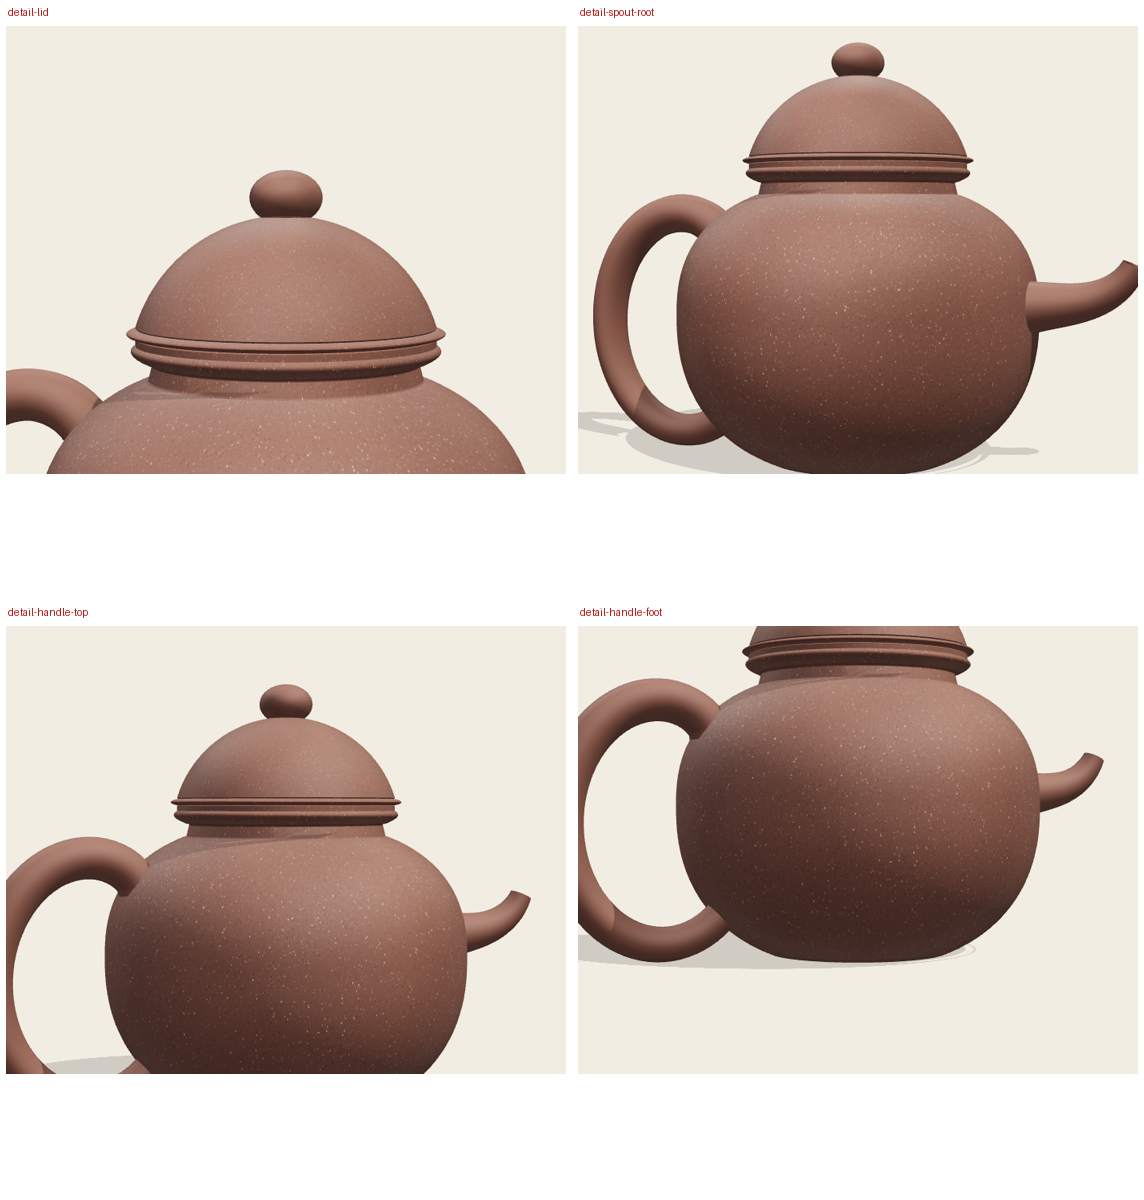
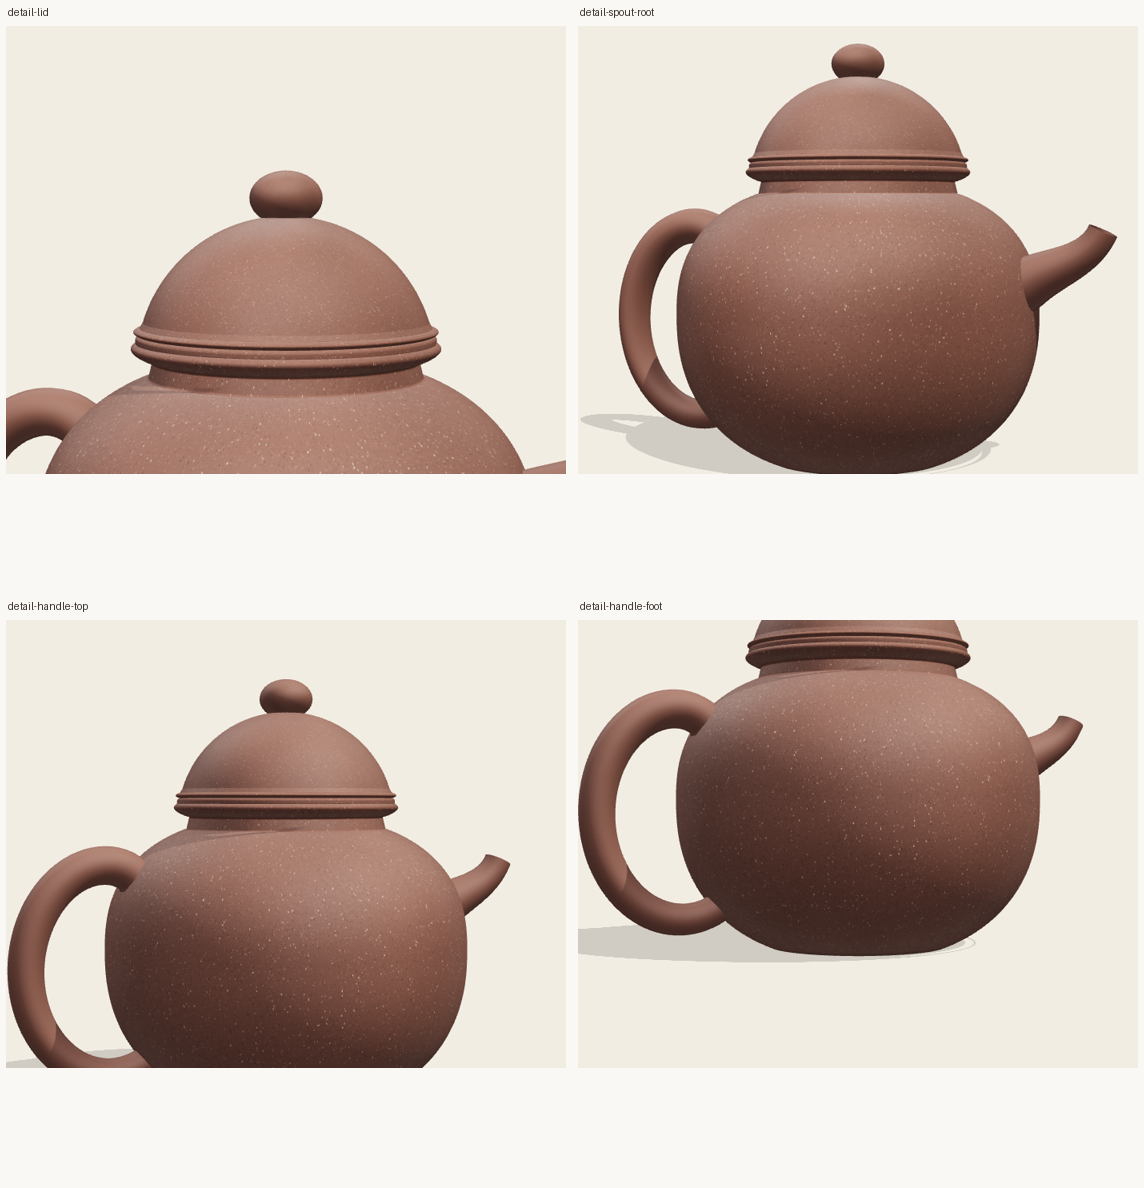
掇球: spout leaves along the normal, lid rim steps back, handle scaled down
The spout was wrong in three compounding ways, each hidden by the last.

  1. Its buried run went *horizontally* into a round belly while the surface
     normal there points up and out, so the tube cut across the surface and
     exited as a thin fin rather than a round root. `oneBend` now measures its
     root angle from the body's own normal at the attachment and starts the
     buried run back along it, meeting the surface square.

  2. The S was spent on the buried quarter. By the time the tube emerged theta
     had already flattened, so the spout read as drooping no matter how positive
     the root angle was. sin(pi u) now runs on the *visible* stretch: straight
     out along the normal, then bend.

  3. Its bore fell too slowly to look like a spout growing out of a shoulder.
     New `flare` exponent puts the narrowing at the root — 1 is a straight
     taper, 3 is nearly all of it in the first fraction.

check-details caught two of my own errors while I was in there: sBend 0.22 gave
zero inflections when I had estimated the threshold by hand, and the old "leaves
the body rising" test was measuring the first 12% of the curve, which is buried
and says nothing about what anyone sees. It now measures across the visible run.

Lid: the dome's base steps back from the ring again (brim 0.03 with the bead at
0.024) — at 0 there was no step at all, and at 0.145 earlier the shelf read as a
flying saucer. Handle scaled down: outerX 1.52 -> 1.36, tube 0.090 -> 0.082.
[…]

diff --git a/src/components/spouts.js b/src/components/spouts.js
@@ -34,22 +34,49 @@ export const SPOUTS = {
     params: {
       attachY: { label: '接身', min: 0.1, max: 0.8, step: 0.01, default: 0.46 },
       length: { label: '流长', min: 0.2, max: 1.2, step: 0.01, default: 0.62 },
-      rootAngle: { label: '起角', min: -10, max: 60, step: 1, default: 26 },
+      // measured *from the body's own surface normal* at the attachment, not
+      // from horizontal: 0 leaves straight out of the belly. Absolute angles
+      // make the buried run cut across the surface obliquely, and the tube then
+      // grazes it and exits as a thin fin instead of a round root.
+      rootAngle: { label: '起角', min: -25, max: 45, step: 1, default: 4 },
       tipAngle: { label: '口角', min: 10, max: 85, step: 1, default: 58 },
       sBend: { label: '弯度', min: 0, max: 1.2, step: 0.02, default: 0.62 },
       rootR: { label: '根径', min: 0.05, max: 0.26, step: 0.002, default: 0.155 },
       tipR: { label: '口径', min: 0.02, max: 0.12, step: 0.002, default: 0.058 },
       wall: { label: '壁厚', min: 0.005, max: 0.03, step: 0.001, default: 0.014 },
+      // How fast the root narrows. A real spout is not a tube of slowly falling
+      // bore stuck on the belly — it flares wide where it meets the body and
+      // thins away within the first fraction of its length, so it reads as
+      // growing out of the shoulder rather than butted against it. 1 is a
+      // straight taper; 3 puts almost all the flare at the root.
+      flare: { label: '根张', min: 1, max: 4, step: 0.1, default: 2.6 },
       blend: { label: '润接', min: 0, max: 0.2, step: 0.005, default: 0.08 },
     },
     build(p, material, prof) {
       const H = prof?.height ?? 1
-      const y0 = H * p.attachY
+      let y0 = H * p.attachY
       const embed = Math.max(0.13, p.rootR + 0.02)
-      const x0 = (prof?.radiusAt ? prof.radiusAt(y0) : 0.8) - embed
       const rad = (d) => (d * Math.PI) / 180
-      const a0 = rad(p.rootAngle), a1 = rad(p.tipAngle)
-      const theta = (t) => a0 + (a1 - a0) * t - p.sBend * Math.sin(Math.PI * t)
+      // the outward normal of the body profile at the attachment height
+      const rr = (yy) => (prof?.radiusAt ? prof.radiusAt(yy) : 0.8)
+      const dh = 0.012
+      const slope = (rr(y0 + dh) - rr(y0 - dh)) / (2 * dh)
+      const nAng = Math.atan2(-slope, 1)
+      const a0 = nAng + rad(p.rootAngle), a1 = rad(p.tipAngle)
+      // start the buried run back along that normal, so the tube meets the
+      // surface square rather than slicing across it
+      const x0 = rr(y0) - embed * Math.cos(nAng)
+      y0 -= embed * Math.sin(nAng)
+      // The dip must not be spent on the buried run. Roughly a quarter of the
+      // curve is inside the belly; if sin(pi t) starts there, the tube has
+      // already flattened by the time it emerges and the spout reads as
+      // drooping however positive the root angle was. Shift the S so it begins
+      // at the surface: straight out along the normal, then bend.
+      const tE = Math.min(0.6, embed / Math.max(p.length, 1e-3))
+      const theta = (t) => {
+        const u = Math.min(1, Math.max(0, (t - tE) / (1 - tE)))
+        return a0 + (a1 - a0) * t - p.sBend * Math.sin(Math.PI * u)
+      }
       const N = 88
       const pts = [new THREE.Vector3(x0, y0, 0)]
       let x = x0, y = y0
@@ -60,9 +87,10 @@ export const SPOUTS = {
         pts.push(new THREE.Vector3(x, y, 0))
       }
       const curve = new THREE.CatmullRomCurve3(pts, false, 'centripetal')
-      const outerAt = (t) => THREE.MathUtils.lerp(p.rootR, p.tipR, Math.pow(t, 0.75))
+      const outerAt = (t) =>
+        p.tipR + (p.rootR - p.tipR) * Math.pow(1 - t, p.flare ?? 2.6)
       const tube = new THREE.Mesh(
-        sweptTube(curve, outerAt, 84, 20, (t) => Math.max(outerAt(t) - p.wall, 0.005)),
+        sweptTube(curve, outerAt, 96, 20, (t) => Math.max(outerAt(t) - p.wall, 0.005)),
         material,
       )
       tube.userData.centreline = curve.getPoints(160)
@@ -104,7 +132,7 @@ export const SPOUTS = {
     },
     build(p, material, prof) {
       const H = prof?.height ?? 1
-      const y0 = H * p.attachY
+      let y0 = H * p.attachY
       // How deep the curve starts inside the body has to scale with the root:
       // a tube of radius R centred on a curve that starts only 0.13 in will
       // have its underside outside a convex belly, and the root opens a notch.

diff --git a/README.md b/README.md
@@ -176,7 +176,7 @@ dead giveaways, so they get their own assertions on the curves themselves:
 | every non-`none` slot has real geometry | a spout positioned at NaN — invisible in the render, silent in every other check |
 | handle never reverses (0 curvature sign changes) | the wiggle where a strap curls in and kicks back out |
 | spout is an S, not a U (≥1 inflection) | a 一弯嘴 that merely arcs |
-| spout leaves the body rising | a spout that sags before it climbs |
+| spout rises across its *visible* run | a spout that sags before it climbs — measured outside the belly, since the buried quarter says nothing about what anyone sees |
 | mouth collar stands proud (rise *and* fall in r(y)) | a collar that swells and stays wide — a flange |
 
 Attachments record the curve they were built from in `userData.centreline`, so
@@ -213,6 +213,15 @@ Families so far:
 | 潘壶 | `pear` | 口小肚大 with an **inflection** neither other family can make: convex round the belly, concave as it draws in to the neck. Belly in the middle third, foot narrower than the belly, a **弯嘴** curved spout, 环把 ring handle, 圆珠钮, and a flat base standing on a **底圈** foot ring. (The seal belongs on the lid rim — a decoration rule, recorded but not checkable geometrically.) |
 | 掇球 | `superellipse` + `ballCap` | 掇 means *to stack*: body, lid and knob are three balls piled on one axis, each smaller than the one below. The identity is the proportions between them — the whole pot fits a circle (盖顶至底 ≈ 身径), the mouth is the golden part of the body (E/E2 = 0.618), the lid is a true spherical cap springing from inside a narrow brim, hanging a **skirt** down over the body's projecting rim collar (唇) — 压盖 means the lid presses over the mouth, and that collar-and-skirt pair is what separates ball 1 from ball 2. A **一弯嘴** whose last third turns up so the lip faces the sky, a short **neck** carrying a **collar that stands proud**, with the lid's own ring stacked on it — two rings, each with its own shadow line. A **一弯嘴** built from its tangent angle so the S is guaranteed, an ordinary **耳形环把** — a *teardrop*, thick at the shoulder, tapering down — *not* 西施's 倒把, and a 圈足 |
 | 西施 | `superellipse` | fuller than an ellipse and asymmetric top to bottom; widest near mid-height, wider than tall, no straight run anywhere in the flank; a wide mouth closed by a **截盖** lid that runs up the body's own curve until the ball is complete (a flat-topped lid reads as the wrong family), a bead knob on the neck it converges to, a **短流略粗** spout, a fully-round **倒耳把** thick at the shoulder and tapering to the belly, flat footless base |
+
+**Attachments leave along the normal.** A spout whose buried run goes
+*horizontally* into a round belly cuts across the surface obliquely, and the
+tube then grazes it and exits as a thin fin instead of a round root. `oneBend`
+measures its root angle from the body's own surface normal at the attachment
+and starts the buried run back along it, so the tube meets the surface square.
+For the same reason its S is shifted to begin at the surface: spent on the
+buried quarter, the spout has already flattened by the time it emerges and
+reads as drooping however positive the root angle was.
 
 **Teardrops by modulation, not by control points.** A loop through two roots
 and an outer point is a circle, and a circle has one curvature everywhere —
